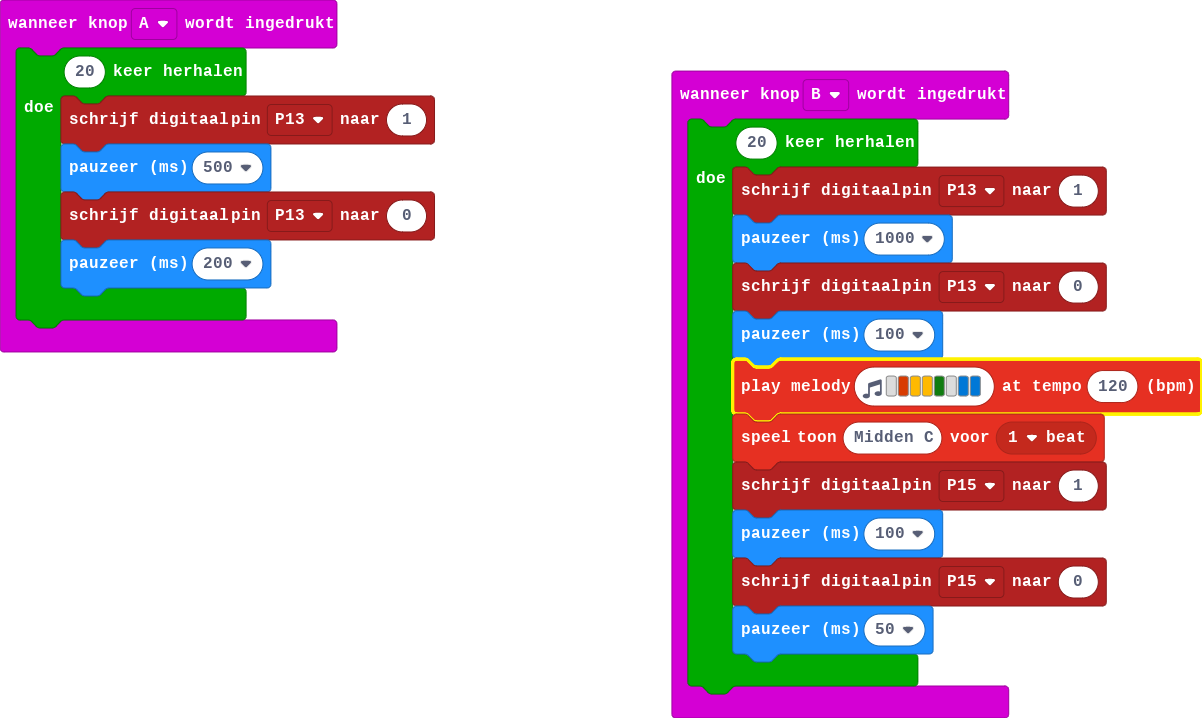
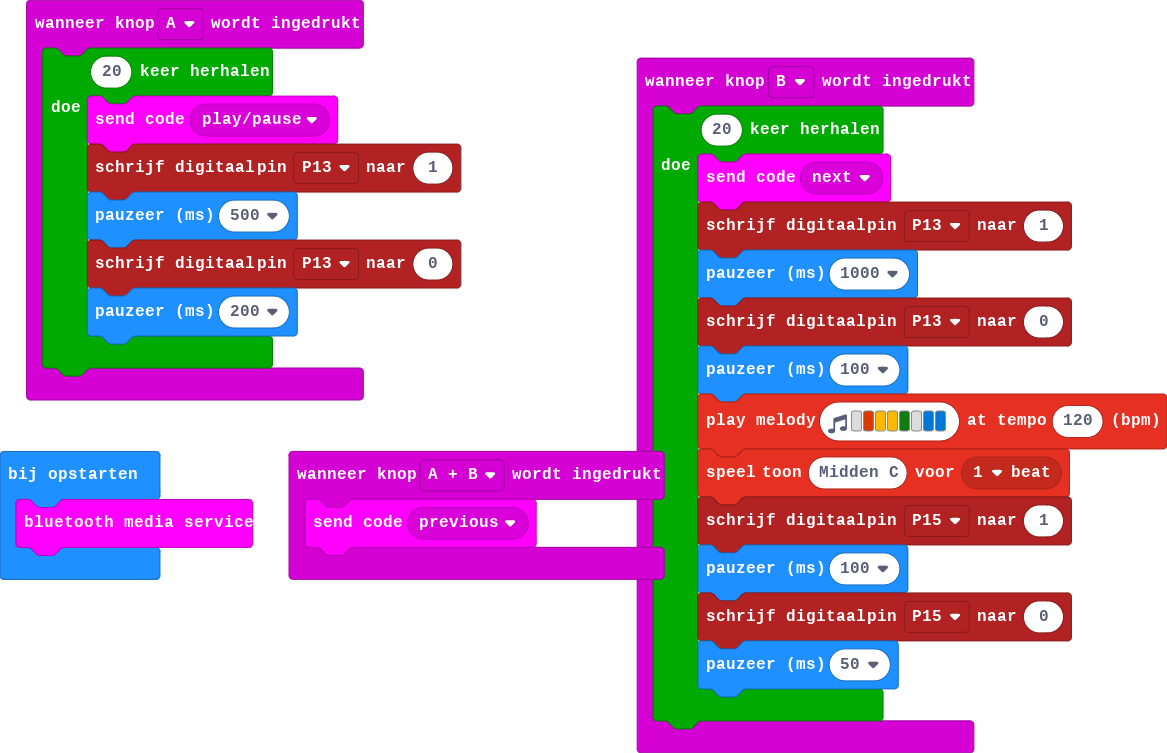
pxt.json, main.blocks, main.ts bijwerken

diff --git a/main.ts b/main.ts
@@ -1,13 +1,18 @@
 input.onButtonPressed(Button.A, function () {
     for (let index = 0; index < 20; index++) {
+        media.sendCode(media.keys(media._MediaKey.playPause))
         pins.digitalWritePin(DigitalPin.P13, 1)
         basic.pause(500)
         pins.digitalWritePin(DigitalPin.P13, 0)
         basic.pause(200)
     }
 })
+input.onButtonPressed(Button.AB, function () {
+    media.sendCode(media.keys(media._MediaKey.previous))
+})
 input.onButtonPressed(Button.B, function () {
     for (let index = 0; index < 20; index++) {
+        media.sendCode(media.keys(media._MediaKey.next))
         pins.digitalWritePin(DigitalPin.P13, 1)
         basic.pause(1000)
         pins.digitalWritePin(DigitalPin.P13, 0)
@@ -20,3 +25,4 @@ input.onButtonPressed(Button.B, function () {
         basic.pause(50)
     }
 })
+media.startMediaService()
